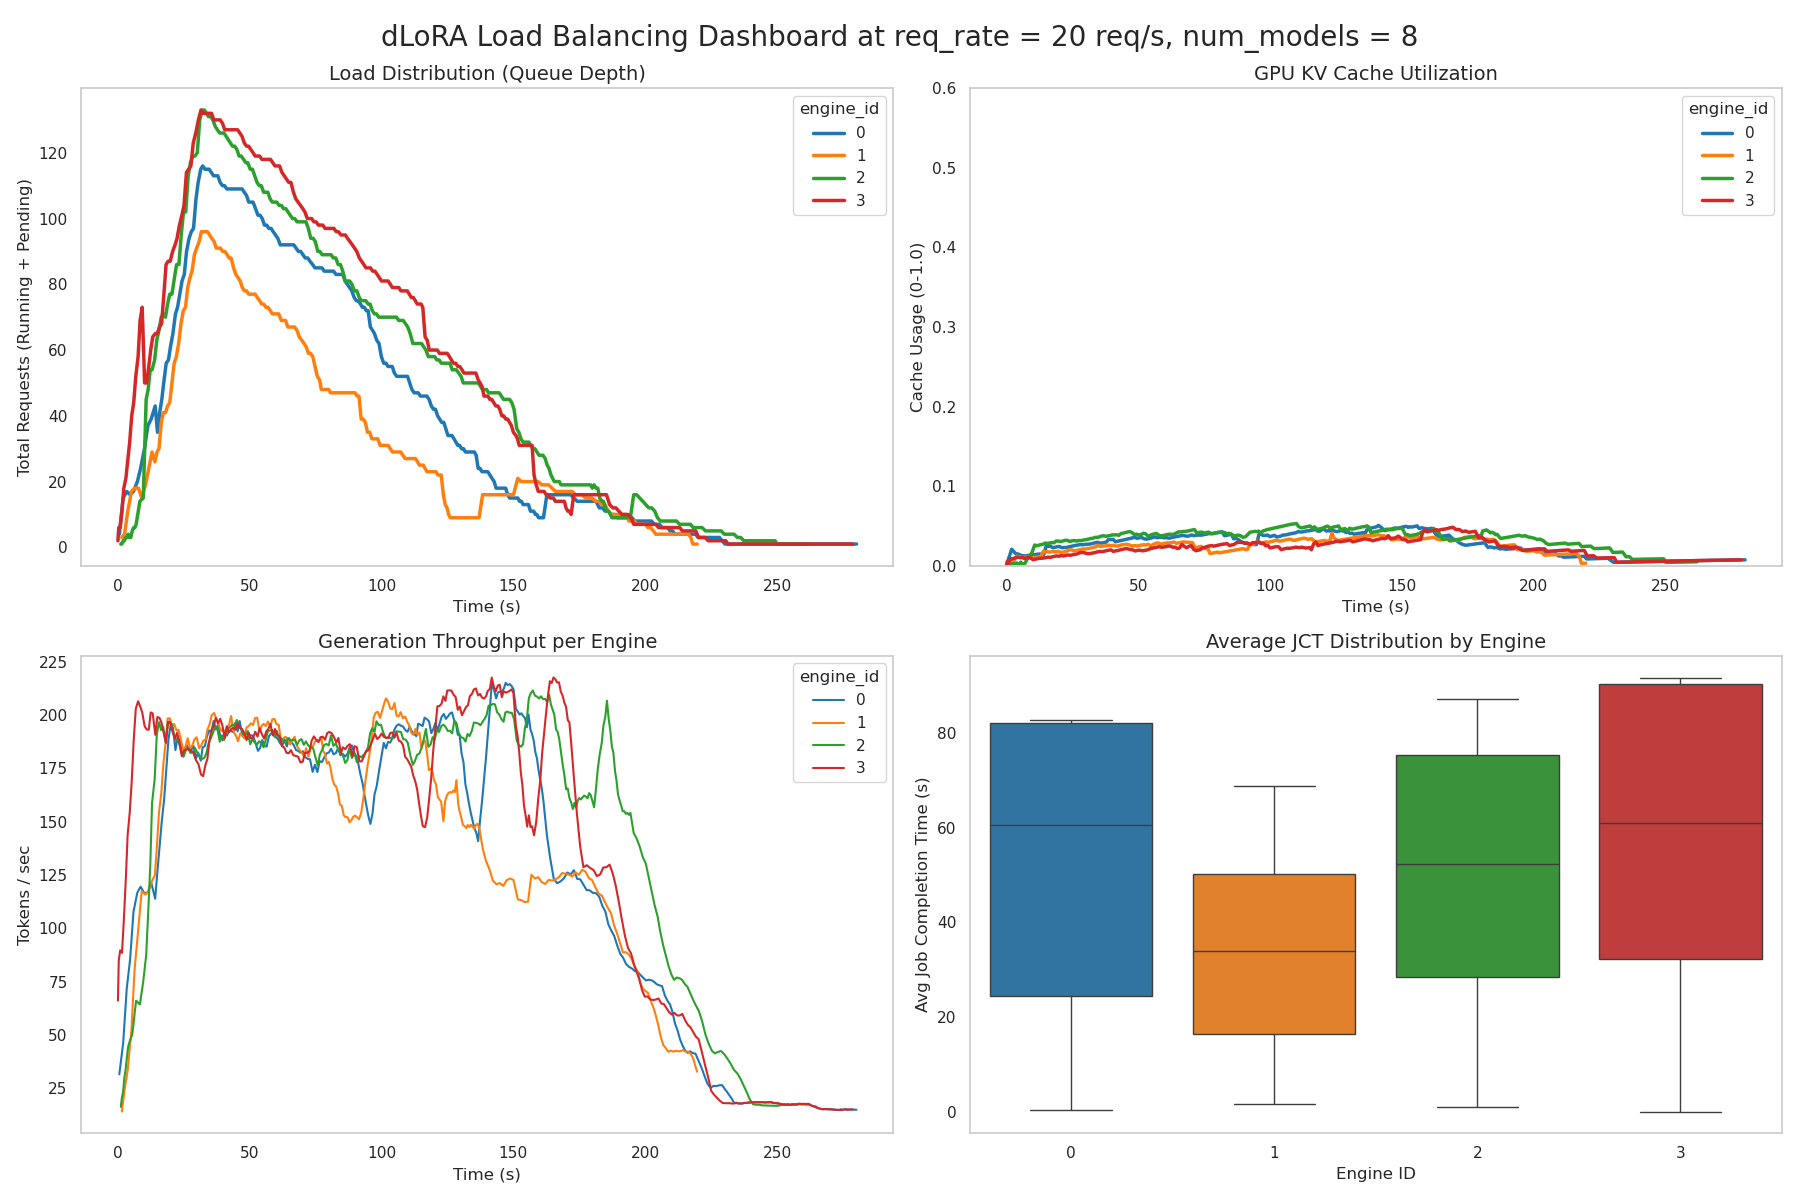
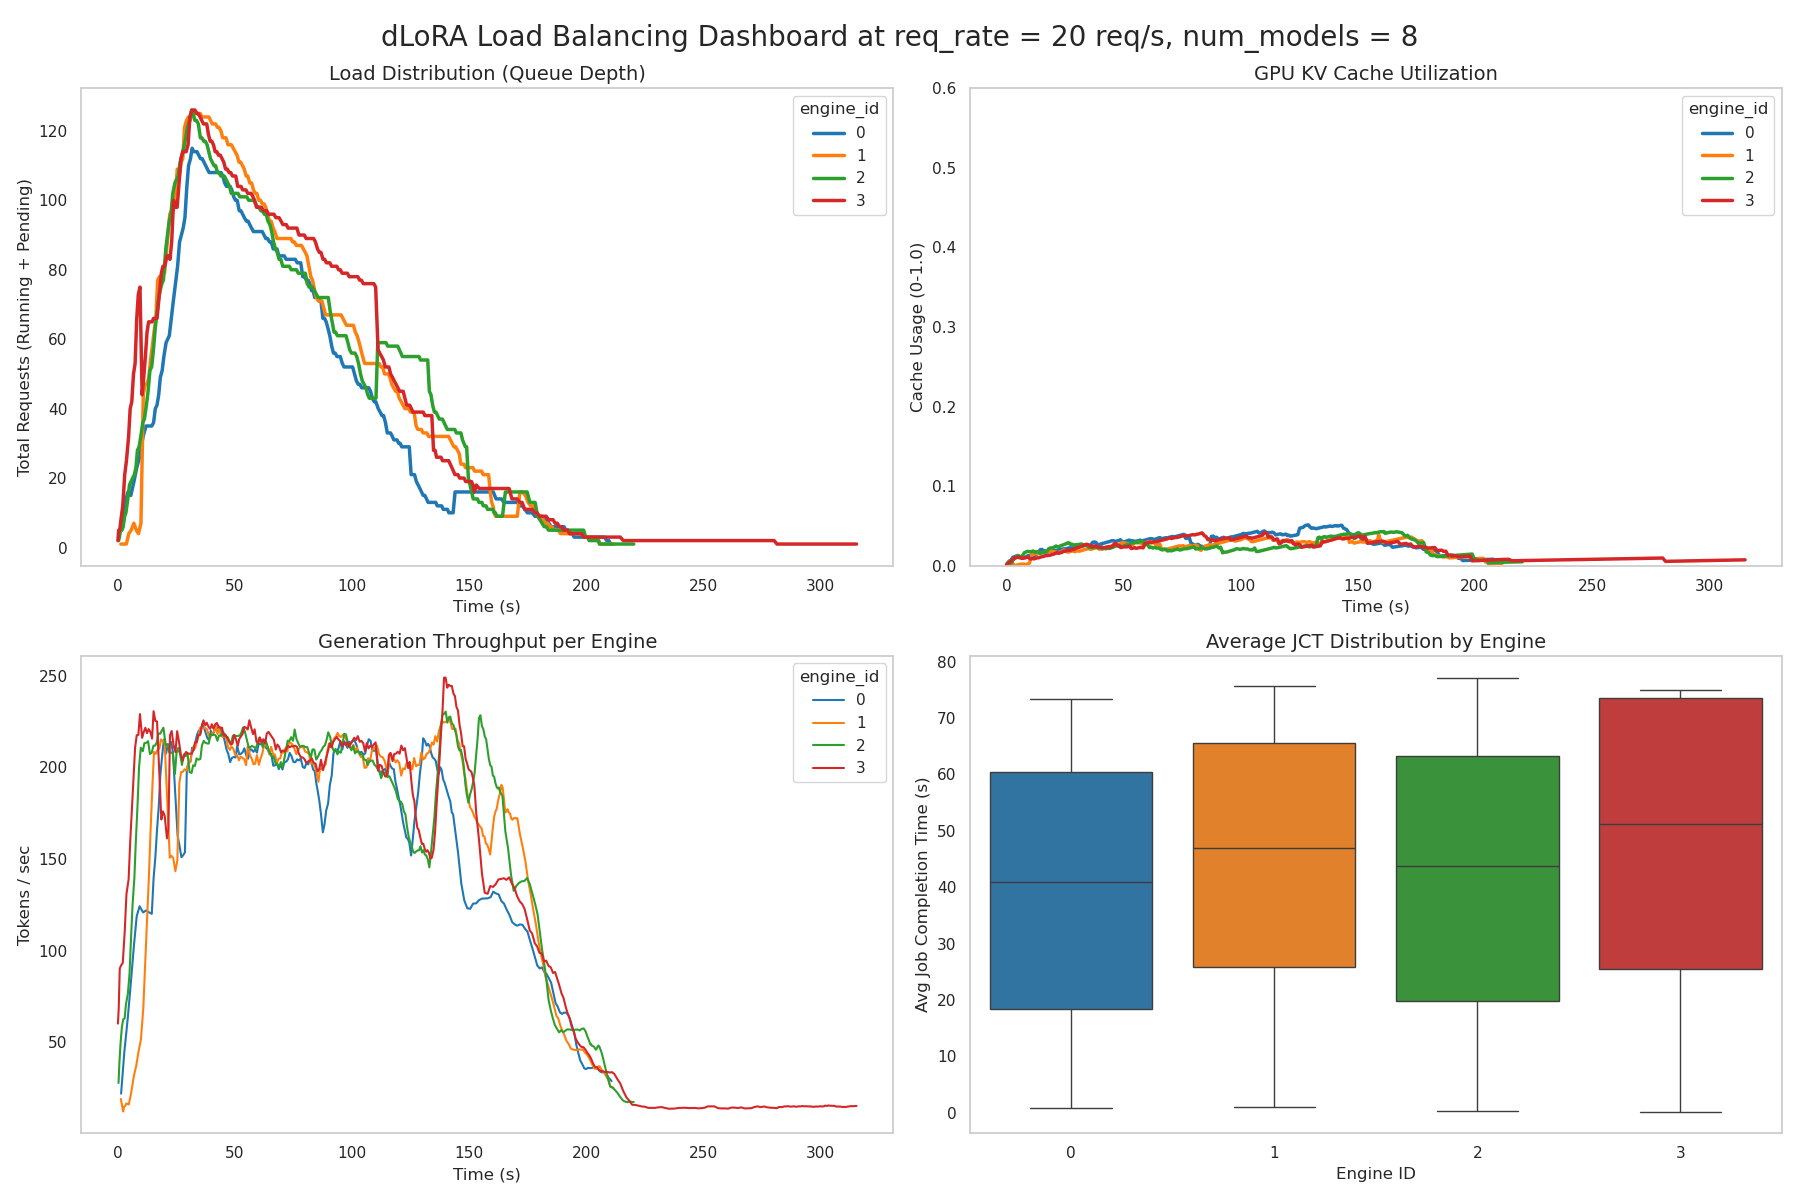
run benchmark

diff --git a/benchmarks/benchmark_serving.py b/benchmarks/benchmark_serving.py
@@ -24,6 +24,7 @@ import time
 from typing import AsyncGenerator, List, Tuple
 
 import aiohttp
+import httpx
 import numpy as np
 from transformers import PreTrainedTokenizerBase
 from vllm.transformers_utils.tokenizer import get_tokenizer
@@ -32,6 +33,7 @@ from vllm.workload_generator import trace
 # (prompt len, output len, latency)
 REQUEST_LATENCY: List[Tuple[int, int, float]] = []
 REQUEST_RECORD: List[Tuple[int, float, float, int, int]] = []
+REQUEST_TTFT: List[float] = []
 start_ts = [0]
 
 def sample_requests(
@@ -170,7 +172,7 @@ async def send_request(
             "top_p": 1.0,
             "max_tokens": output_len,
             "ignore_eos": True,
-            "stream": False,
+            "stream": True,
             "ts": start_ts[0] if is_first else 0,
         }
     elif backend == "tgi":
@@ -187,19 +189,26 @@ async def send_request(
     else:
         raise ValueError(f"Unknown backend: {backend}")
 
-    timeout = aiohttp.ClientTimeout(total=12 * 3600)
-    async with aiohttp.ClientSession(timeout=timeout) as session:
-        while True:
-            async with session.post(api_url, headers=headers, json=pload) as response:
-                chunks = []
-                async for chunk, _ in response.content.iter_chunks():
-                    chunks.append(chunk)
-            output = b"".join(chunks).decode("utf-8")
-            output = json.loads(output)
-
-            # Re-send the request if it failed.
-            if "error" not in output:
-                break
+    timeout = httpx.Timeout(12 * 3600)
+    async with httpx.AsyncClient(timeout=timeout) as client:
+        async with client.stream("POST", api_url, json=pload) as response:
+            buffer = ""
+            # 逐块读取网络流
+            is_first_chunk = True
+            async for chunk in response.aiter_text():
+                if is_first_chunk:
+                    ttft_time = time.time()
+                    ttft_latency = ttft_time - request_start_time
+                    REQUEST_TTFT.append(ttft_latency)
+                    is_first_chunk = False
+                buffer += chunk
+                while "\0" in buffer:
+                    message, buffer = buffer.split("\0", 1)
+                    if not message:
+                        continue
+                    output = json.loads(message)
+                    if "error" in output:
+                        break
 
     request_end_time = time.time()
     request_latency = request_end_time - request_start_time
@@ -298,6 +307,9 @@ def main(args: argparse.Namespace):
                     exec_time = float(fields[2])
                     queueing_ratio = queueing_delay / (queueing_delay + exec_time)
                     file.write(f"{replica_id},{queueing_ratio}\n")
+            elif args.output_style == 6:
+                avg_ttft = np.mean(REQUEST_TTFT)
+                file.write(f"{args.policy},{args.request_rate},{args.num_models},{avg_ttft:.4f}\n")
 
 if __name__ == "__main__":
     parser = argparse.ArgumentParser(

diff --git a/vllm/engine/llm_engine.py b/vllm/engine/llm_engine.py
@@ -6,7 +6,7 @@ import torch
 
 from vllm.config import (CacheConfig, MetricOutput, ModelConfig, ParallelConfig,
                          SchedulerConfig, LoRaConfig, ExecType)
-from vllm.core.scheduler import Scheduler, SchedulerOutputs
+from vllm.core.scheduler_v2 import Scheduler, SchedulerOutputs
 from vllm.engine.arg_utils import EngineArgs
 from vllm.engine.ray_utils import RayWorker, initialize_cluster, ray
 from vllm.logger import init_logger

diff --git a/vllm/core/scheduler_v2.py b/vllm/core/scheduler_v2.py
@@ -1450,7 +1450,7 @@ class Scheduler:
         # have higher priority.
         seq_sample = seq_group.get_seqs()[0]
         num_generated_tokens = seq_sample.get_output_len()
-        if num_generated_tokens < 10:
+        if num_generated_tokens < 128:
             return 0 # Q0: highest priority
         elif num_generated_tokens < 256:
             return 1 # Q1

diff --git a/insight.md b/insight.md
@@ -1,0 +1,44 @@
+# 1. 负载失衡指标的选取
+
+定义 $engine_i$ 上时刻 $t$ 的负载压力 $P_i(t)$ 为
+$$P_i(t) = len(running\_seqs_i) + len(waiting\_seqs_i)$$
+
+其中 $running\_seqs_i$ 和 $waiting\_seqs_i$ 分别表示在 $engine_i$ 上运行和等待的sequence集合。
+
+定义系统在时刻 $t$ 的负载指标 Jain's Fairness Index (JFI) 为
+$$JFI(t) = \frac{(\sum_{i=1}^{N} P_i(t))^2}{N \cdot \sum_{i=1}^{N} P_i(t)^2}$$
+其中 $N$ 表示系统中engine的数量。
+
+JFI 的取值范围为 $(\frac{1}{N}, 1]$，当所有engine的负载压力相等时，JFI 达到最大值 $1$，表示负载均衡；当负载压力分布极度不均时，JFI 接近 $\frac{1}{N}$，表示负载失衡。
+
+最终用于衡量系统负载失衡程度的指标 $L(t)$ 定义为
+$$L(t) = 1 - JFI(t)$$
+
+，$L(t)$ 的取值范围为 $[0, 1 - \frac{1}{N})$，值越大表示负载失衡程度越高。
+
+# 2.改进点 1: 减少决定LoRA模型合并的双阈值 $\beta_{switch}$ 和 $\alpha_{switch}$ 的修正时机
+
+![双阈值处理](image.png)
+
+原dLoRA论文中提出的上下阈值修正的发生时机是由估测的合并推理吞吐量 $\hat{T}_{merge}$ 和不合并推理吞吐量 $\hat{T}_{no\_merge}$ 的比较结果决定的：当 $\hat{T}_{merge} > \hat{T}_{no\_merge}$ 时，则认为合并推理更优，此时向 $\alpha_{switch}$ 减去AIMD修正值 $\delta_{lin}$，否则向 $\alpha_{switch}$ 乘上AIMD修正值 $\delta_{mul}$。
+
+![alt text](image-1.png)
+
+然而这种修正时机依赖的吞吐量估测结果可能存在较大的噪声，导致阈值频繁波动，从而影响系统的稳定性。为了解决这个问题，一种经常用于平滑决策过程的方法是采用 Exponential Moving Average (EMA) 来平滑吞吐量估测结果。
+具体来说，我们引入一个平滑系数 $\alpha \in [0, 1)$，并定义平滑后的吞吐量估测结果为：
+$$\bar{T}_{merge}(t) = (1 - \alpha) \cdot \bar{T}_{merge}(t-1) + \alpha \cdot \hat{T}_{merge}(t)$$
+
+可以看到, 当 $\alpha = 1$ 时，$\bar{T}_{merge}(t)$ 退化为原论文使用的即时估测值 $\hat{T}_{merge}(t)$；当 $\alpha$ 趋近于 $0$ 时，$\bar{T}_{merge}(t)$ 更加平滑，减少了噪声的影响。
+具体的 $\alpha$ 选取通过实验调优来确定，以在吞吐量和稳定性之间取得平衡。
+
+![alt text](image-2.png)
+
+# 3.改进点 2: 引入生成Token数量作为FCFS调度的辅助参考指标
+
+在原有的FCFS调度策略中，任务的调度顺序仅依据任务的到达时间。然而，在实际应用中，不同任务可能需要生成不同数量的Tokens，只考虑到达时间可能导致某些需要生成少量Tokens的任务长时间等待而造成饥饿，从而影响整体系统的响应时间和用户体验。
+为了解决这个问题，可以引入已生成Token数量取代FCFS调度，定义三个阈值：
+- $thresh_{low}$：低阈值，小于该值的任务优先级最高
+- $thresh_{mid}$：中阈值，处于该范围内的任务优先级次之
+- $thresh_{high}$：高阈值，大于该值的任务优先级最低
+
+引入后，系统的TTFT（Time To First Token）指标得到了改善。
